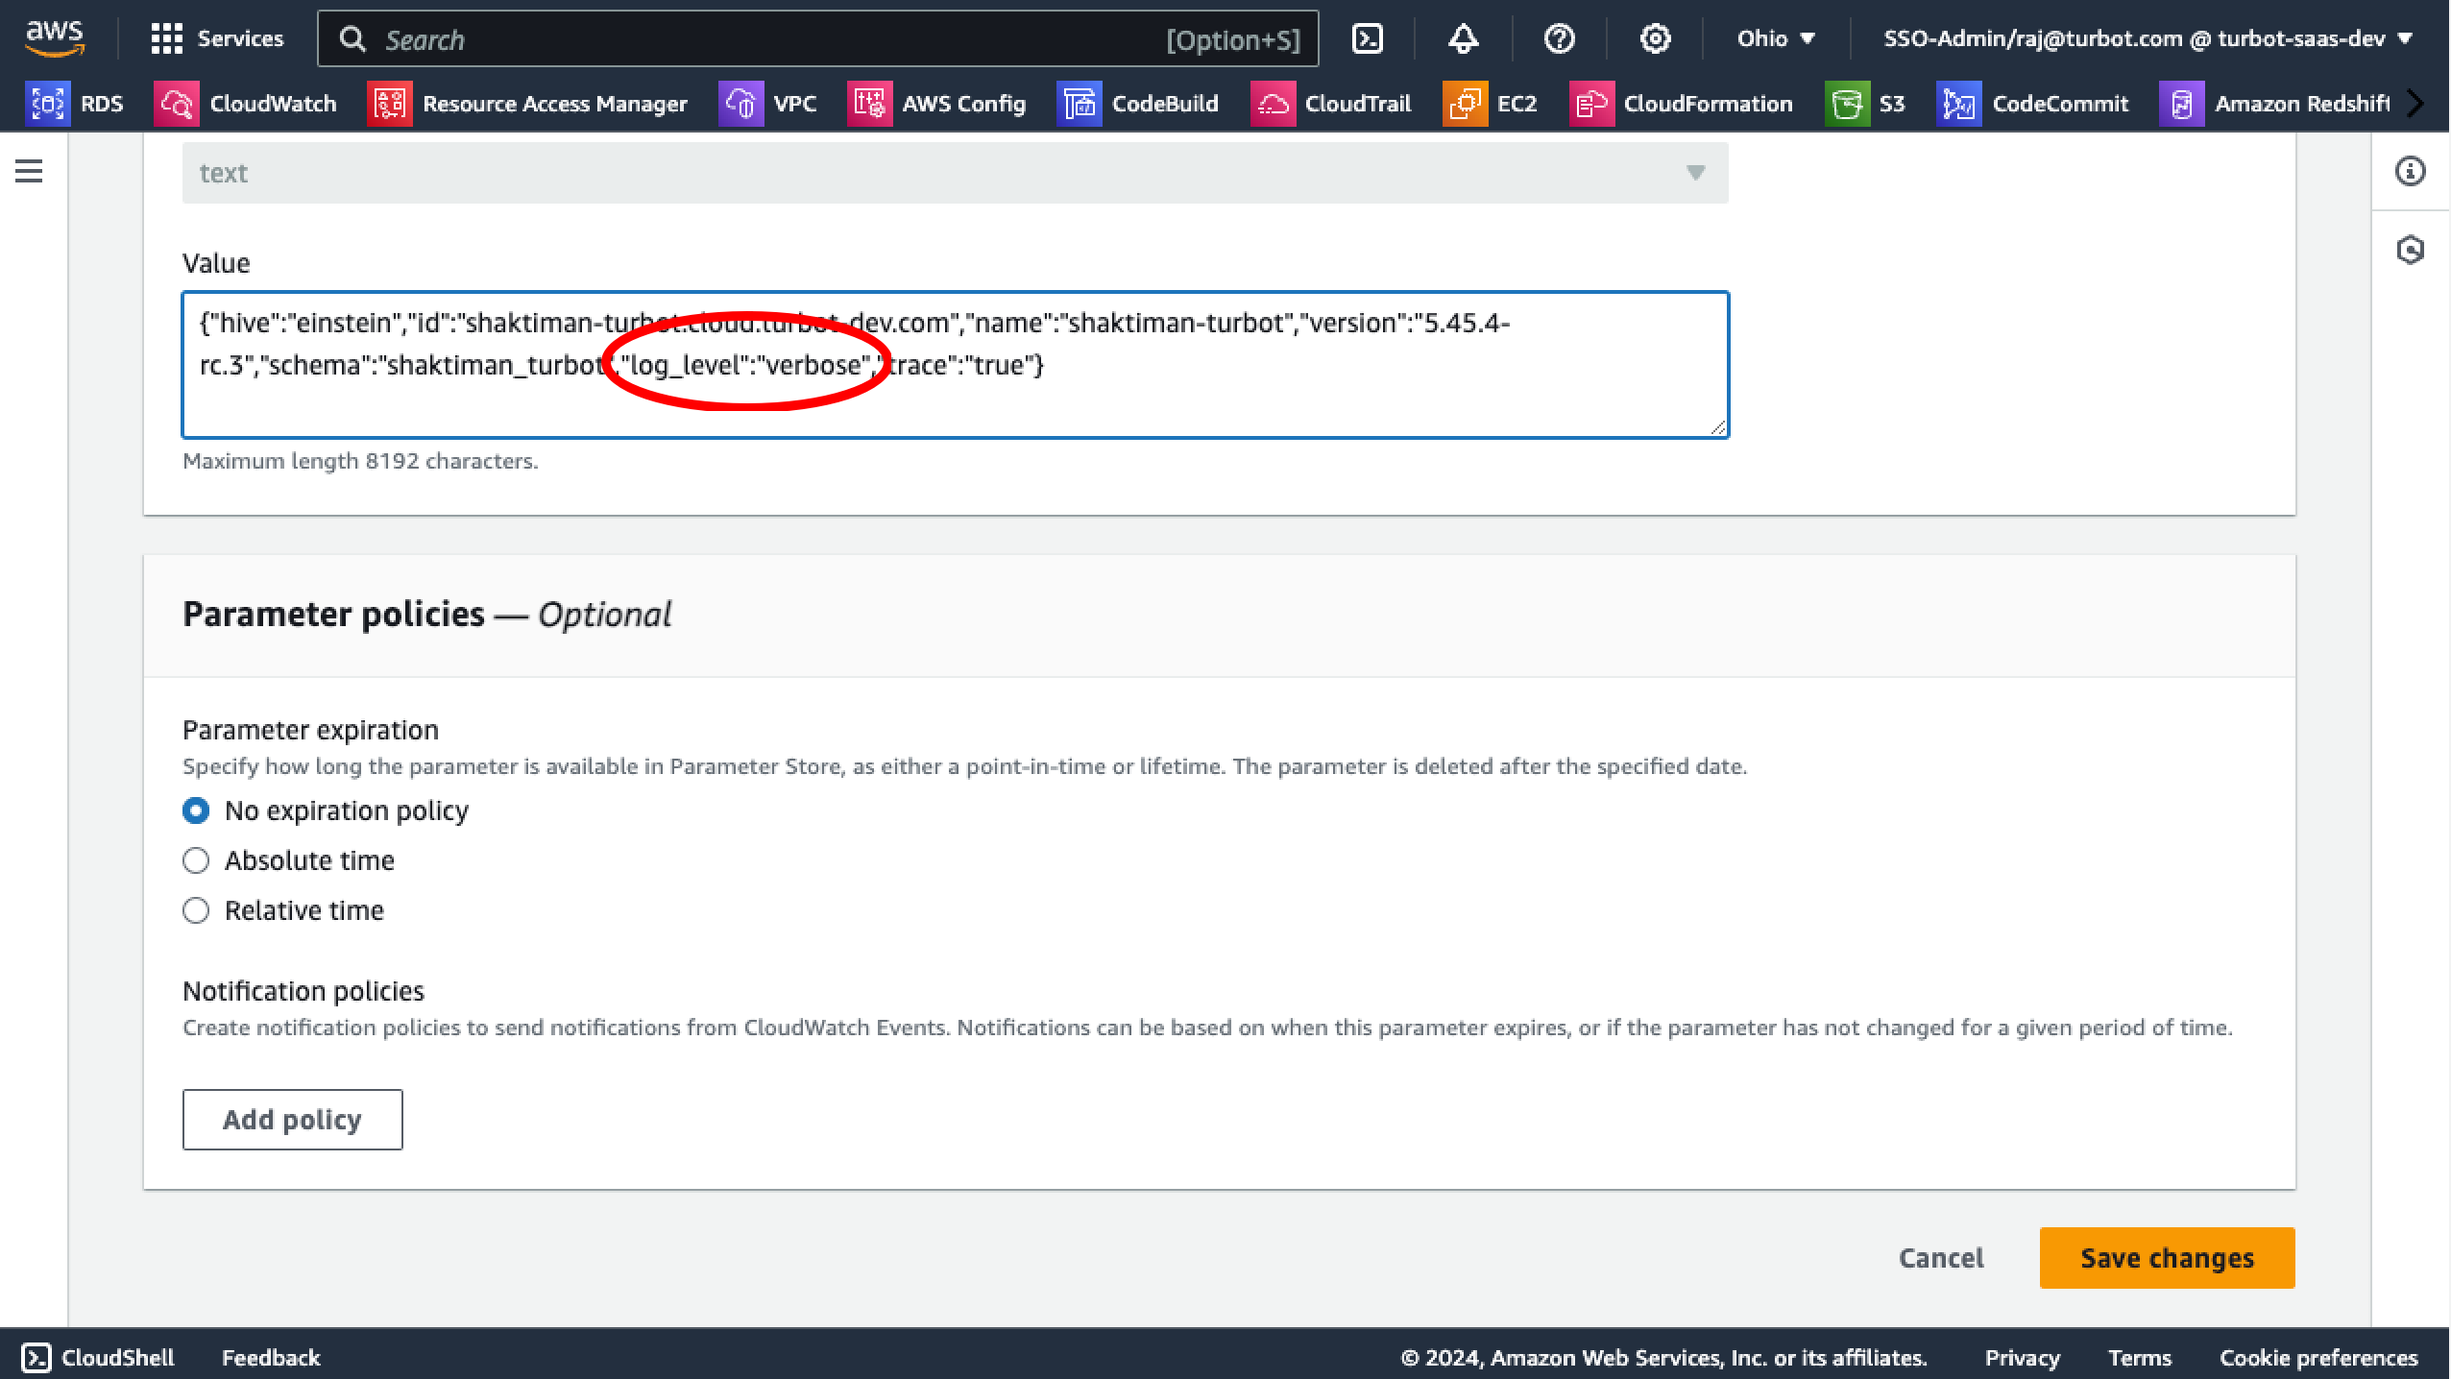
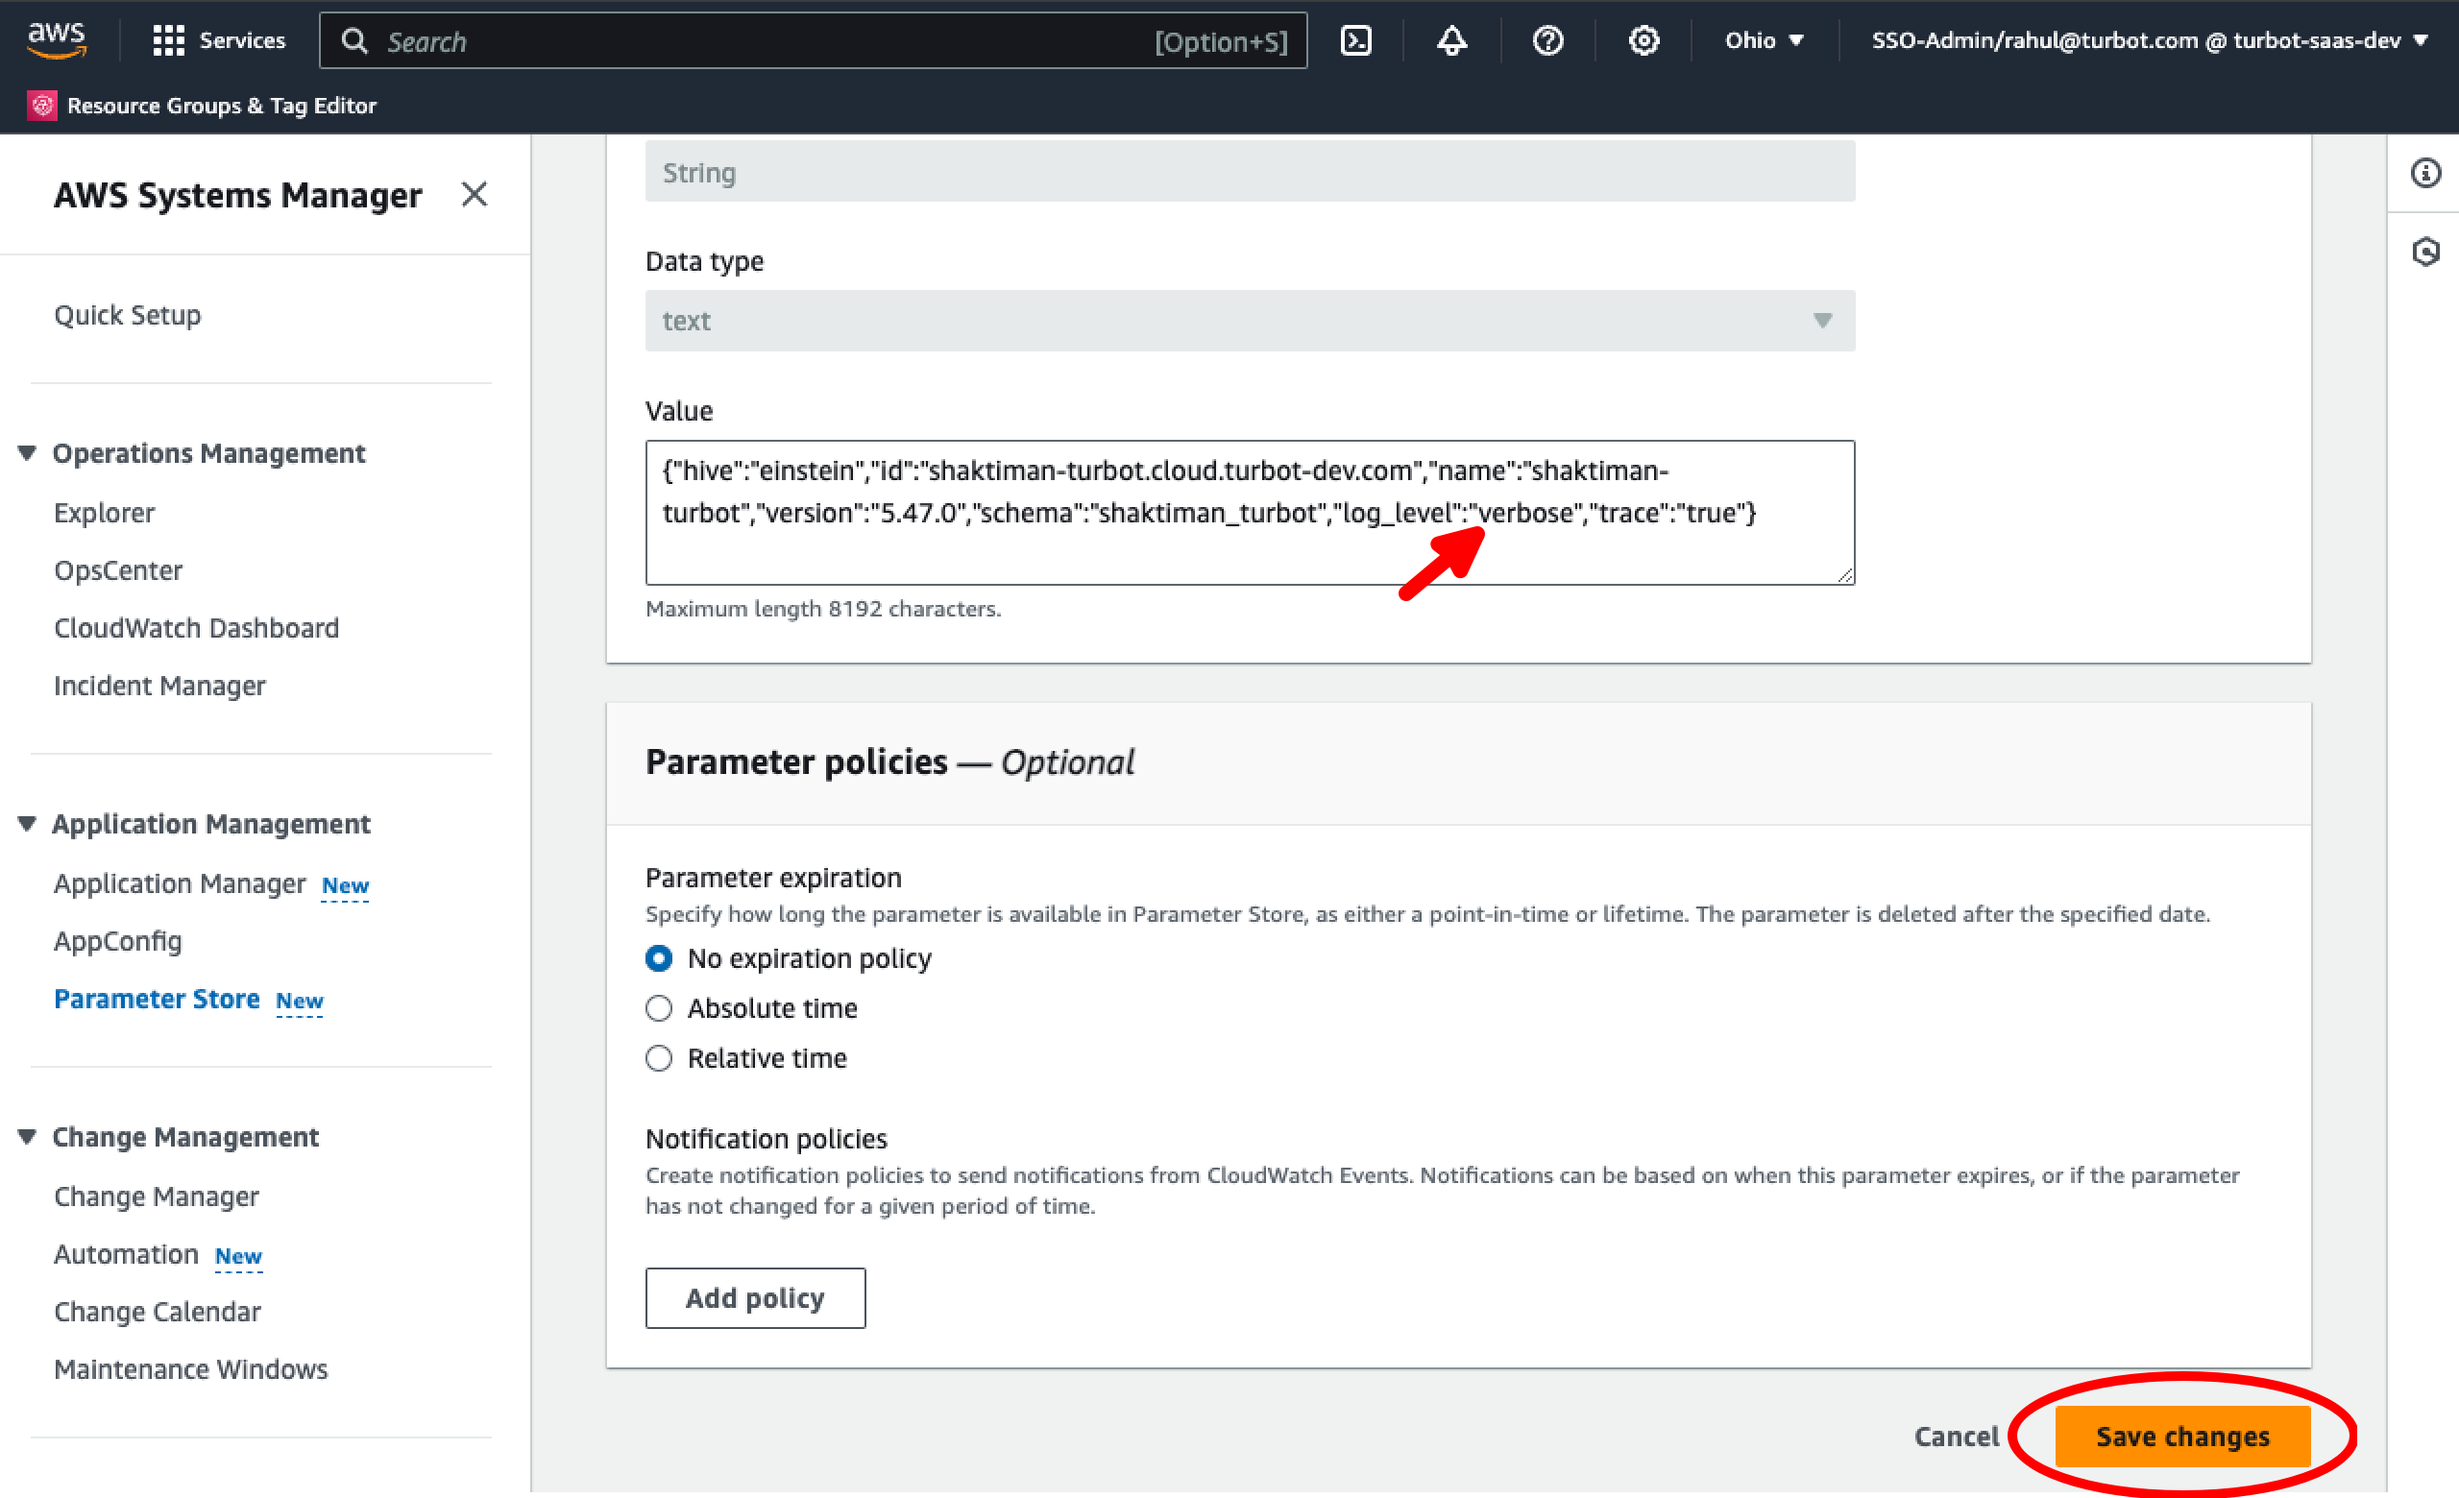
Update > Troubleshooting > Verbose logging

diff --git a/docs/runbooks/troubleshooting/enable-verbose-logging/index.md b/docs/runbooks/troubleshooting/enable-verbose-logging/index.md
@@ -5,66 +5,76 @@ sidebar_label: Enable Verbose Logging
 
 # Enable Workspace Verbose Logging
 
-In this runbook, you will:
-- Use AWS console setting verbose logging in the Events and API containers, which can provide valuable troubleshooting information
+In this guide, you will:
+- Use AWS console setting verbose logging in the Events and API containers
 - Learn how to troubleshoot in Guardrails
 
-**Verbose Logging** Generally, verbose logging will only be required when working with Turbot Support to diagnose some issues. Enabling verbose logging on the Events and API containers should be considered a short-term measure. It should only be enabled as long as necessary.
+**Verbose logging** is primarily used for troubleshooting and is generally only necessary when working with Turbot Support to diagnose specific issues. When enabled, verbose logging on Events and API containers should be viewed as a short-term solution, active only for the duration required to gather essential data.
 
-Long-term verbose logging can cause a considerable increase in logging costs with little to no value from the data logged.
+It's important to note that keeping verbose logging enabled for extended periods can lead to a significant increase in logging costs, while offering little to no additional value from the data collected. 
 
 ## Prerequisites
 
 - Access to the Guardrails AWS account with Administrator privileges.
-- Familiarity with AWS Console, Service Catalog, and CloudFormation services.
+- Familiarity with AWS Console, Systems Manager(SSM), Service Catalog and CloudFormation services.
 
 ## Step 1: Access AWS Console
 
 Open the AWS Console and navigate to the System Manager service in the region where Guardrails stacks are deployed
 
-![AWS SSM Console](/images/docs/guardrails/runbooks/troubleshooting/enable-verbose-logging/aws-ssm-parameter-store.png)
+![AWS Console SSM](/images/docs/guardrails/runbooks/troubleshooting/enable-verbose-logging/aws-console-ssm.png)
 
-## Step 2: Identify SSM Parameter Value
+## Step 2: Navigate to Parameter Store
 
-![SSM Workspace Parameter](/images/docs/guardrails/runbooks/troubleshooting/enable-verbose-logging/aws-ssm-workspace-parameter.png)
+Choose **Parameter Store** from the left navigation menu.
 
+![SSM Parameter Store](/images/docs/guardrails/runbooks/troubleshooting/enable-verbose-logging/ssm-parameter-store.png)
 
-## Step 3: Check Default Parameter Value
+## Step 3: Identify SSM Parameter Value
 
-To start with the default `log_level` is set to `debug`.
+To enable verbose event logging, first identify the workspace(s) you want to configure. Search for **tenant** to generate a list of parameters for all workspaces in this region, then Locate the relevant parameters, which will follow this format: **/{turbot_prefix}/tenant/{workspace}.{installation_domain}**.
+
+![SSM Workspace Parameter](/images/docs/guardrails/runbooks/troubleshooting/enable-verbose-logging/ssm-workspace-parameter-search.png)
+
+## Step 3: Verify Parameter Value
+
+Choose the tenant parameter and verify if the **log_level** is set to `debug`, as this is the default setting.
 
 ![SSM Workspace Parameter Value](/images/docs/guardrails/runbooks/troubleshooting/enable-verbose-logging/aws-ssl-parameter-value-default-settings.png)
 
-
 ## Step 4: Modify Parameter Value
 
-Select **Edit** and update `log_level` to `verbose` in `Value` section
+Select **Edit** and update `log_level` to `verbose` in `Value` field. Then select **Save changes**.
+
+> [!Note] Ensure the parameter string is a valid JSON before saving. Keep all rest of the values as default.
 
 ![SSM Workspace Parameter With Verbose](/images/docs/guardrails/runbooks/troubleshooting/enable-verbose-logging/aws-ssm-parameter-modifiy-verbose.png)
 
-**Note:**
-Ensure the parameter string is a valid JSON before saving. Keep all rest of the values as default and select **Save Changes**.
+## Step 5: Enable Verbose Logging in Service Catalog
 
-## Step 5: Enforce the Change
+Navigate to the **Service Catalog** service and select the **Turbot Guardrails Enterprise (TE)** provisioned product where verbose logging is required. Then, select Actions and choose Update.
 
-Enforce the change by updating the respective CloudFormation TE stack where the workspace is hosted. This step is important to ensure that the changes made above propagate to the respective workspace.
+![Service Catalog TE Update](/images/docs/guardrails/runbooks/troubleshooting/enable-verbose-logging/service-catalog-te-update.png)
 
-Navigate to `CloudFormation` check for `Turbot Enterprise` stack and update the `Parameter Deployment Trigger` value from Blue <-> Green. This should trigger a new parameter change. No other changes to the TE stack are required as part of these troubleshooting steps.
+Toggle the Deployment Trigger between Blue and Green, this will trigger the TE Cloudformation stack to ensure that the Events and API containers are using the latest SSM parameter values. No other changes to the TE stack are required as a part of these troubleshooting steps. The select **Update**.
 
-## Step 6: Review
+![Service Catalog TE Deployment Trigger](/images/docs/guardrails/runbooks/troubleshooting/enable-verbose-logging/service-catalog-deployment-trigger.png)
 
-- [ ] In Step 5 wait for the Cloudformation to finish updating the TE stack. The Stack should indicate `UPDATE_COMPLETE`
+## Step 6: Review Cloud Formation Stack
 
-![Validate TE Stack Status](/images/docs/guardrails/runbooks/troubleshooting/enable-verbose-logging/aws-ssm-parameter-change-validation.png)
+- [ ] The TED CloudFormation stack status should change to `UPDATE_COMPLETE` indicating the update completed successfully.
 
-You have successfully updated the Workspace SSM parameter to enable verbose logging. Now you can navigate Cloudwatch Log Group for /{turbot_prefix}/{te_version}/events or /{turbot_prefix}/{te_version}/api to investigate generated events and check for required troubleshooting data.
+![Validate TE Stack Status](/images/docs/guardrails/runbooks/troubleshooting/enable-verbose-logging/cfn-workspace-te-stack-validation.png)
 
-**Note:**
-When troubleshooting is complete, turn off verbose logging. Go to the SSM Console and repeat steps 1 to 5. Edit the `log_level` back to `debug`.
+## Step 7: Search for Troubleshooting Data.
 
-## Next Steps
+With verbose logging now enabled, you can navigate to Cloudwatch service and find the Log Group(s) for **/{turbot_prefix}/{te_version}/events** or **/{turbot_prefix}/{te_version}/api** to investigate generated events and check for required troubleshooting data.
 
-Please see the following resources to learn more about Turbot Guardrails Enterprise:
+> [!Important]
+> When troubleshooting is complete, turn off verbose logging. Go to the SSM Console and repeat steps 1 to 5. Edit the `log_level` back to `debug`.
 
-- Learn more about [TE architecture](https://turbot.com/guardrails/docs/enterprise/architecture).
-- Learn about [Troubleshooting](https://turbot.com/guardrails/docs/enterprise/troubleshooting).
+If you encounter any issues, please [Open Support Ticket](https://support.turbot.com) and attach the relevant information to assist you more efficiently.
+
+- A screenshot of the SSM workspace parameter value.
+- A screenshot of the CloudFormation Events tab for the TE stack.
+- A screenshot of the Service Catalog TE provisioned product.
